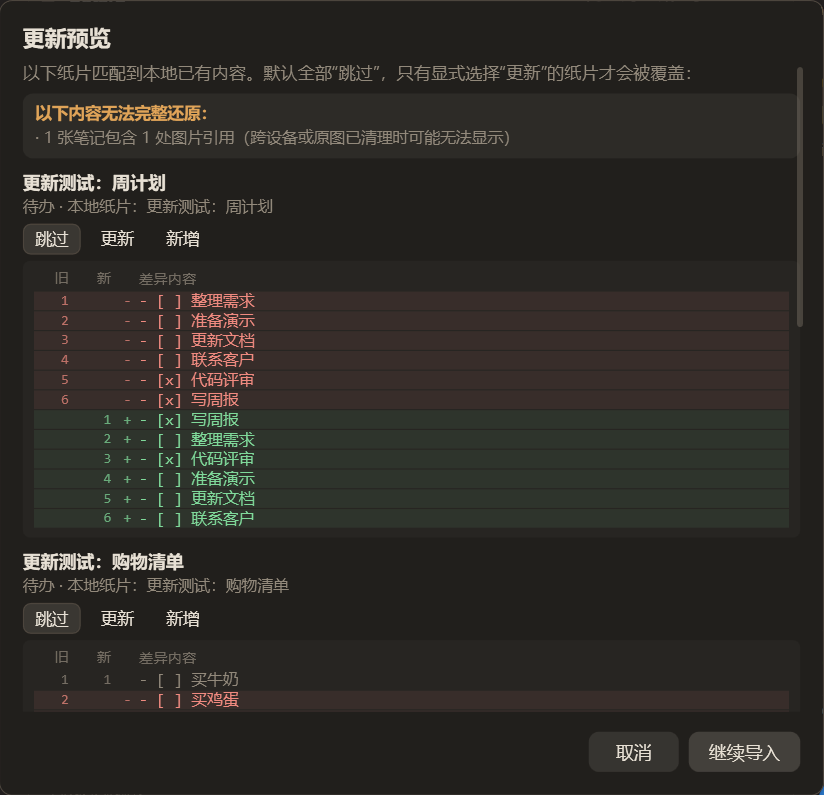
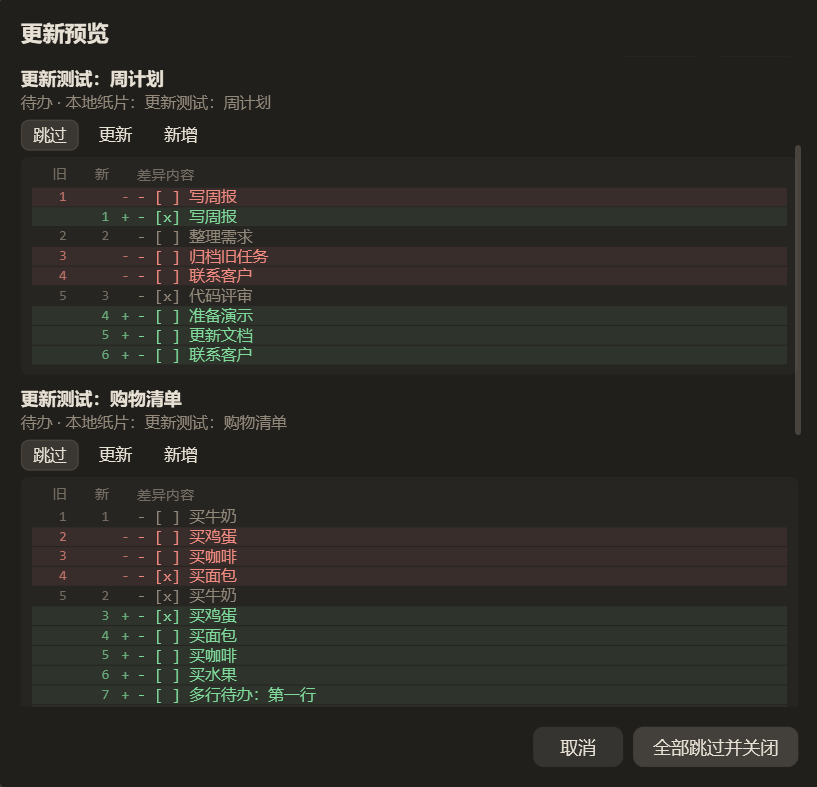
refactor: 差异展示改为 Git 风格分块
- 基于最长公共子序列计算行级差异
- 未变化内容作为上下文，删除与新增紧邻展示
- 多处修改分别成块，远距离差异之间省略未变化内容
- 更新差异截图与测试

diff --git a/Services/TextDiff.cs b/Services/TextDiff.cs
@@ -1,25 +1,49 @@
 namespace PaperTodo.Plugin.DataIo;
 
 /// <summary>
-/// 一行差异：' ' 表示相同，'-' 表示本地有而文件没有，'+' 表示文件新增。
+/// 一行差异：' ' 表示相同，'-' 表示本地有而文件没有，'+' 表示文件新增，'…' 表示省略的上下文。
 /// OldLine/NewLine 为 1 基行号，0 表示该侧没有对应行。
 /// </summary>
 internal readonly record struct DiffLine(char Kind, string Text, int OldLine, int NewLine);
 
 /// <summary>
-/// 轻量行级差异：保留共同前缀/后缀附近的少量上下文，中间分别列出删除和新增行。
-/// 对超长内容做截断，避免预览窗口消耗过多内存。
+/// 轻量行级差异：先求最长公共子序列，再按 Git 的阅读习惯组织差异块。
+/// 未变化的内容作为上下文保留；删除和新增紧邻展示；多处修改分别形成差异块，
+/// 相距较远的差异块之间用省略行分隔。对超长内容做截断，避免预览窗口消耗过多内存。
 /// </summary>
 internal static class TextDiff
 {
+    /// <summary>每个差异块在变化行前后保留的上下文行数。</summary>
     private const int ContextLines = 2;
+
+    /// <summary>预览中最多展示的差异行数；超出时截断并提示。</summary>
     private const int MaxLines = 160;
+
+    /// <summary>LCS 动态规划允许的最大单元格数；超过后退化为整块替换。</summary>
+    private const long MaxLcsCells = 2_000_000;
 
     public static IReadOnlyList<DiffLine> Compute(string? before, string? after)
     {
         var oldLines = Split(before);
         var newLines = Split(after);
 
+        var operations = BuildOperations(oldLines, newLines);
+        return BuildHunks(operations);
+    }
+
+    public static string TodoSnapshot(IEnumerable<(string Text, bool Done)> items)
+    {
+        return string.Join(
+            "\n",
+            items.Select(item => (item.Done ? "- [x] " : "- [ ] ") + item.Text));
+    }
+
+    /// <summary>
+    /// 生成完整的行级操作序列（相同、删除、新增）。先剥离公共前缀/后缀，
+    /// 只对中间部分求 LCS；中间过大时退化为“先删后加”，避免占用过多内存。
+    /// </summary>
+    private static List<DiffLine> BuildOperations(string[] oldLines, string[] newLines)
+    {
         var prefix = 0;
         while (prefix < oldLines.Length &&
                prefix < newLines.Length &&
@@ -36,58 +60,218 @@ internal static class TextDiff
             suffix++;
         }
 
-        var result = new List<DiffLine>();
-        var prefixStart = Math.Max(0, prefix - ContextLines);
-        if (prefixStart > 0)
+        var operations = new List<DiffLine>(oldLines.Length + newLines.Length);
+
+        for (var i = 0; i < prefix; i++)
         {
-            result.Add(new DiffLine('…', $"上方省略 {prefixStart} 行", 0, 0));
+            operations.Add(new DiffLine(' ', oldLines[i], i + 1, i + 1));
         }
 
-        for (var i = prefixStart; i < prefix; i++)
-        {
-            result.Add(new DiffLine(' ', oldLines[i], i + 1, i + 1));
-        }
+        var oldMiddle = oldLines.AsSpan(prefix, oldLines.Length - prefix - suffix);
+        var newMiddle = newLines.AsSpan(prefix, newLines.Length - prefix - suffix);
+        AppendMiddle(operations, oldMiddle, newMiddle, prefix);
 
-        for (var i = prefix; i < oldLines.Length - suffix; i++)
+        for (var i = 0; i < suffix; i++)
         {
-            result.Add(new DiffLine('-', oldLines[i], i + 1, 0));
-        }
-
-        for (var i = prefix; i < newLines.Length - suffix; i++)
-        {
-            result.Add(new DiffLine('+', newLines[i], 0, i + 1));
-        }
-
-        var suffixShown = Math.Min(suffix, ContextLines);
-        if (suffix > suffixShown)
-        {
-            result.Add(new DiffLine('…', $"下方省略 {suffix - suffixShown} 行", 0, 0));
-        }
-
-        for (var i = oldLines.Length - suffixShown; i < oldLines.Length; i++)
-        {
-            var offset = i - (oldLines.Length - suffixShown);
-            result.Add(new DiffLine(
+            operations.Add(new DiffLine(
                 ' ',
-                oldLines[i],
-                i + 1,
-                newLines.Length - suffixShown + offset + 1));
+                oldLines[oldLines.Length - suffix + i],
+                oldLines.Length - suffix + i + 1,
+                newLines.Length - suffix + i + 1));
+        }
+
+        return operations;
+    }
+
+    private static void AppendMiddle(
+        List<DiffLine> operations,
+        ReadOnlySpan<string> oldMiddle,
+        ReadOnlySpan<string> newMiddle,
+        int prefix)
+    {
+        if (oldMiddle.Length == 0)
+        {
+            for (var j = 0; j < newMiddle.Length; j++)
+            {
+                operations.Add(new DiffLine('+', newMiddle[j], 0, prefix + j + 1));
+            }
+
+            return;
+        }
+
+        if (newMiddle.Length == 0)
+        {
+            for (var i = 0; i < oldMiddle.Length; i++)
+            {
+                operations.Add(new DiffLine('-', oldMiddle[i], prefix + i + 1, 0));
+            }
+
+            return;
+        }
+
+        // 中间部分过大时放弃 LCS：按“整块删除 + 整块新增”展示，至少保证内容完整。
+        if ((long)oldMiddle.Length * newMiddle.Length > MaxLcsCells)
+        {
+            AppendReplacement(operations, oldMiddle, newMiddle, prefix);
+            return;
+        }
+
+        var lcs = BuildLcsTable(oldMiddle, newMiddle);
+        var oldIndex = 0;
+        var newIndex = 0;
+        while (oldIndex < oldMiddle.Length && newIndex < newMiddle.Length)
+        {
+            if (string.Equals(oldMiddle[oldIndex], newMiddle[newIndex], StringComparison.Ordinal))
+            {
+                operations.Add(new DiffLine(
+                    ' ',
+                    oldMiddle[oldIndex],
+                    prefix + oldIndex + 1,
+                    prefix + newIndex + 1));
+                oldIndex++;
+                newIndex++;
+                continue;
+            }
+
+            // 删除优先：同一处修改先展示旧行，再展示新行，接近 Git Diff 的阅读顺序。
+            if (lcs[oldIndex + 1, newIndex] >= lcs[oldIndex, newIndex + 1])
+            {
+                operations.Add(new DiffLine('-', oldMiddle[oldIndex], prefix + oldIndex + 1, 0));
+                oldIndex++;
+            }
+            else
+            {
+                operations.Add(new DiffLine('+', newMiddle[newIndex], 0, prefix + newIndex + 1));
+                newIndex++;
+            }
+        }
+
+        while (oldIndex < oldMiddle.Length)
+        {
+            operations.Add(new DiffLine('-', oldMiddle[oldIndex], prefix + oldIndex + 1, 0));
+            oldIndex++;
+        }
+
+        while (newIndex < newMiddle.Length)
+        {
+            operations.Add(new DiffLine('+', newMiddle[newIndex], 0, prefix + newIndex + 1));
+            newIndex++;
+        }
+    }
+
+    /// <summary>退化为整块替换：先列出所有旧行，再列出所有新行。</summary>
+    private static void AppendReplacement(
+        List<DiffLine> operations,
+        ReadOnlySpan<string> oldMiddle,
+        ReadOnlySpan<string> newMiddle,
+        int prefix)
+    {
+        for (var i = 0; i < oldMiddle.Length; i++)
+        {
+            operations.Add(new DiffLine('-', oldMiddle[i], prefix + i + 1, 0));
+        }
+
+        for (var j = 0; j < newMiddle.Length; j++)
+        {
+            operations.Add(new DiffLine('+', newMiddle[j], 0, prefix + j + 1));
+        }
+    }
+
+    /// <summary>lcs[i, j] 表示 old[i..] 与 new[j..] 的最长公共子序列长度。</summary>
+    private static int[,] BuildLcsTable(ReadOnlySpan<string> oldMiddle, ReadOnlySpan<string> newMiddle)
+    {
+        var rows = oldMiddle.Length;
+        var columns = newMiddle.Length;
+        var lcs = new int[rows + 1, columns + 1];
+        for (var i = rows - 1; i >= 0; i--)
+        {
+            for (var j = columns - 1; j >= 0; j--)
+            {
+                lcs[i, j] = string.Equals(oldMiddle[i], newMiddle[j], StringComparison.Ordinal)
+                    ? lcs[i + 1, j + 1] + 1
+                    : Math.Max(lcs[i + 1, j], lcs[i, j + 1]);
+            }
+        }
+
+        return lcs;
+    }
+
+    /// <summary>
+    /// 把操作序列切成差异块：每个变化行前后保留上下文；相距较近的差异块合并，
+    /// 相距较远的差异块之间插入“省略 N 行”，避免把整篇正文都塞进预览。
+    /// </summary>
+    private static IReadOnlyList<DiffLine> BuildHunks(List<DiffLine> operations)
+    {
+        var changed = new List<int>();
+        for (var i = 0; i < operations.Count; i++)
+        {
+            if (operations[i].Kind is '-' or '+')
+            {
+                changed.Add(i);
+            }
+        }
+
+        // 没有变化时不生成差异块，直接返回内容（调用方会显示“内容无变化”）。
+        if (changed.Count == 0)
+        {
+            return operations.Count > MaxLines
+                ? operations.Take(MaxLines).Append(new DiffLine('…', "差异已截断", 0, 0)).ToList()
+                : operations;
+        }
+
+        var hunks = new List<(int Start, int End)>();
+        foreach (var index in changed)
+        {
+            var start = Math.Max(0, index - ContextLines);
+            var end = Math.Min(operations.Count - 1, index + ContextLines);
+            if (hunks.Count > 0 && start <= hunks[^1].End + 1)
+            {
+                // 两个差异块之间只剩少量未变化行：合并成一个块，避免碎片化。
+                hunks[^1] = (hunks[^1].Start, Math.Max(hunks[^1].End, end));
+            }
+            else
+            {
+                hunks.Add((start, end));
+            }
+        }
+
+        var result = new List<DiffLine>();
+        var previousEnd = -1;
+        foreach (var (start, end) in hunks)
+        {
+            if (start > previousEnd + 1)
+            {
+                result.Add(new DiffLine(
+                    '…',
+                    $"省略 {start - previousEnd - 1} 行",
+                    0,
+                    0));
+            }
+
+            for (var i = start; i <= end; i++)
+            {
+                result.Add(operations[i]);
+            }
+
+            previousEnd = end;
+        }
+
+        if (previousEnd < operations.Count - 1)
+        {
+            result.Add(new DiffLine(
+                '…',
+                $"省略 {operations.Count - 1 - previousEnd} 行",
+                0,
+                0));
         }
 
         if (result.Count > MaxLines)
         {
             result = result.Take(MaxLines).ToList();
-            result.Add(new DiffLine('…', "差异已截断", 0, 0));
+            result.Add(new DiffLine('…', "差异已截断，仅显示前 160 行", 0, 0));
         }
 
         return result;
-    }
-
-    public static string TodoSnapshot(IEnumerable<(string Text, bool Done)> items)
-    {
-        return string.Join(
-            "\n",
-            items.Select(item => (item.Done ? "- [x] " : "- [ ] ") + item.Text));
     }
 
     private static string[] Split(string? text) =>

diff --git a/tests/PaperTodo.Plugin.DATAIO.Tests/TextUtilitiesTests.cs b/tests/PaperTodo.Plugin.DATAIO.Tests/TextUtilitiesTests.cs
@@ -61,6 +61,78 @@ public sealed class TextUtilitiesTests
     }
 
     [Fact]
+    public void Diff_shows_deletions_before_additions_for_a_changed_block()
+    {
+        var diff = TextDiff.Compute("a\nb\nc", "a\nx\ny\nc").ToList();
+
+        var removed = diff.FindIndex(line => line.Kind == '-' && line.Text == "b");
+        var addedX = diff.FindIndex(line => line.Kind == '+' && line.Text == "x");
+        var addedY = diff.FindIndex(line => line.Kind == '+' && line.Text == "y");
+
+        Assert.True(removed >= 0 && addedX > removed && addedY > addedX);
+    }
+
+    [Fact]
+    public void Diff_pure_insertion_has_no_removed_lines()
+    {
+        var diff = TextDiff.Compute("a\nc", "a\nb\nc").ToList();
+
+        Assert.DoesNotContain(diff, line => line.Kind == '-');
+        var added = Assert.Single(diff, line => line.Kind == '+');
+        Assert.Equal("b", added.Text);
+        Assert.Equal(2, added.NewLine);
+    }
+
+    [Fact]
+    public void Diff_pure_deletion_has_no_added_lines()
+    {
+        var diff = TextDiff.Compute("a\nb\nc", "a\nc").ToList();
+
+        Assert.DoesNotContain(diff, line => line.Kind == '+');
+        var removed = Assert.Single(diff, line => line.Kind == '-');
+        Assert.Equal("b", removed.Text);
+        Assert.Equal(2, removed.OldLine);
+    }
+
+    [Fact]
+    public void Diff_groups_distant_changes_into_separate_hunks()
+    {
+        var oldLines = Enumerable.Range(1, 12).Select(i => $"line{i}").ToArray();
+        var newLines = (string[])oldLines.Clone();
+        newLines[1] = "changed2";
+        newLines[10] = "changed11";
+
+        var diff = TextDiff.Compute(string.Join("\n", oldLines), string.Join("\n", newLines)).ToList();
+
+        var firstRemoved = diff.FindIndex(line => line.Kind == '-' && line.Text == "line2");
+        var gap = diff.FindIndex(line => line.Kind == '…');
+        var secondRemoved = diff.FindIndex(line => line.Kind == '-' && line.Text == "line11");
+
+        // 两处修改之间应当出现省略行，而不是把中间所有内容都列出来。
+        Assert.True(firstRemoved >= 0);
+        Assert.True(gap > firstRemoved);
+        Assert.True(secondRemoved > gap);
+        Assert.DoesNotContain(diff, line => line.Kind == ' ' && line.Text == "line6");
+    }
+
+    [Fact]
+    public void Diff_keeps_context_lines_around_each_change()
+    {
+        var oldLines = Enumerable.Range(1, 10).Select(i => $"line{i}").ToArray();
+        var newLines = (string[])oldLines.Clone();
+        newLines[4] = "changed5";
+
+        var diff = TextDiff.Compute(string.Join("\n", oldLines), string.Join("\n", newLines)).ToList();
+
+        Assert.Contains(diff, line => line.Kind == ' ' && line.Text == "line3");
+        Assert.Contains(diff, line => line.Kind == ' ' && line.Text == "line4");
+        Assert.Contains(diff, line => line.Kind == ' ' && line.Text == "line6");
+        Assert.Contains(diff, line => line.Kind == ' ' && line.Text == "line7");
+        Assert.DoesNotContain(diff, line => line.Kind == ' ' && line.Text == "line1");
+        Assert.DoesNotContain(diff, line => line.Kind == ' ' && line.Text == "line10");
+    }
+
+    [Fact]
     public void Content_equivalence_ignores_trailing_blank_lines_and_separator()
     {
         Assert.True(MarkdownNormalize.ContentEquivalent("正文\n\n---\n\n", "正文"));
